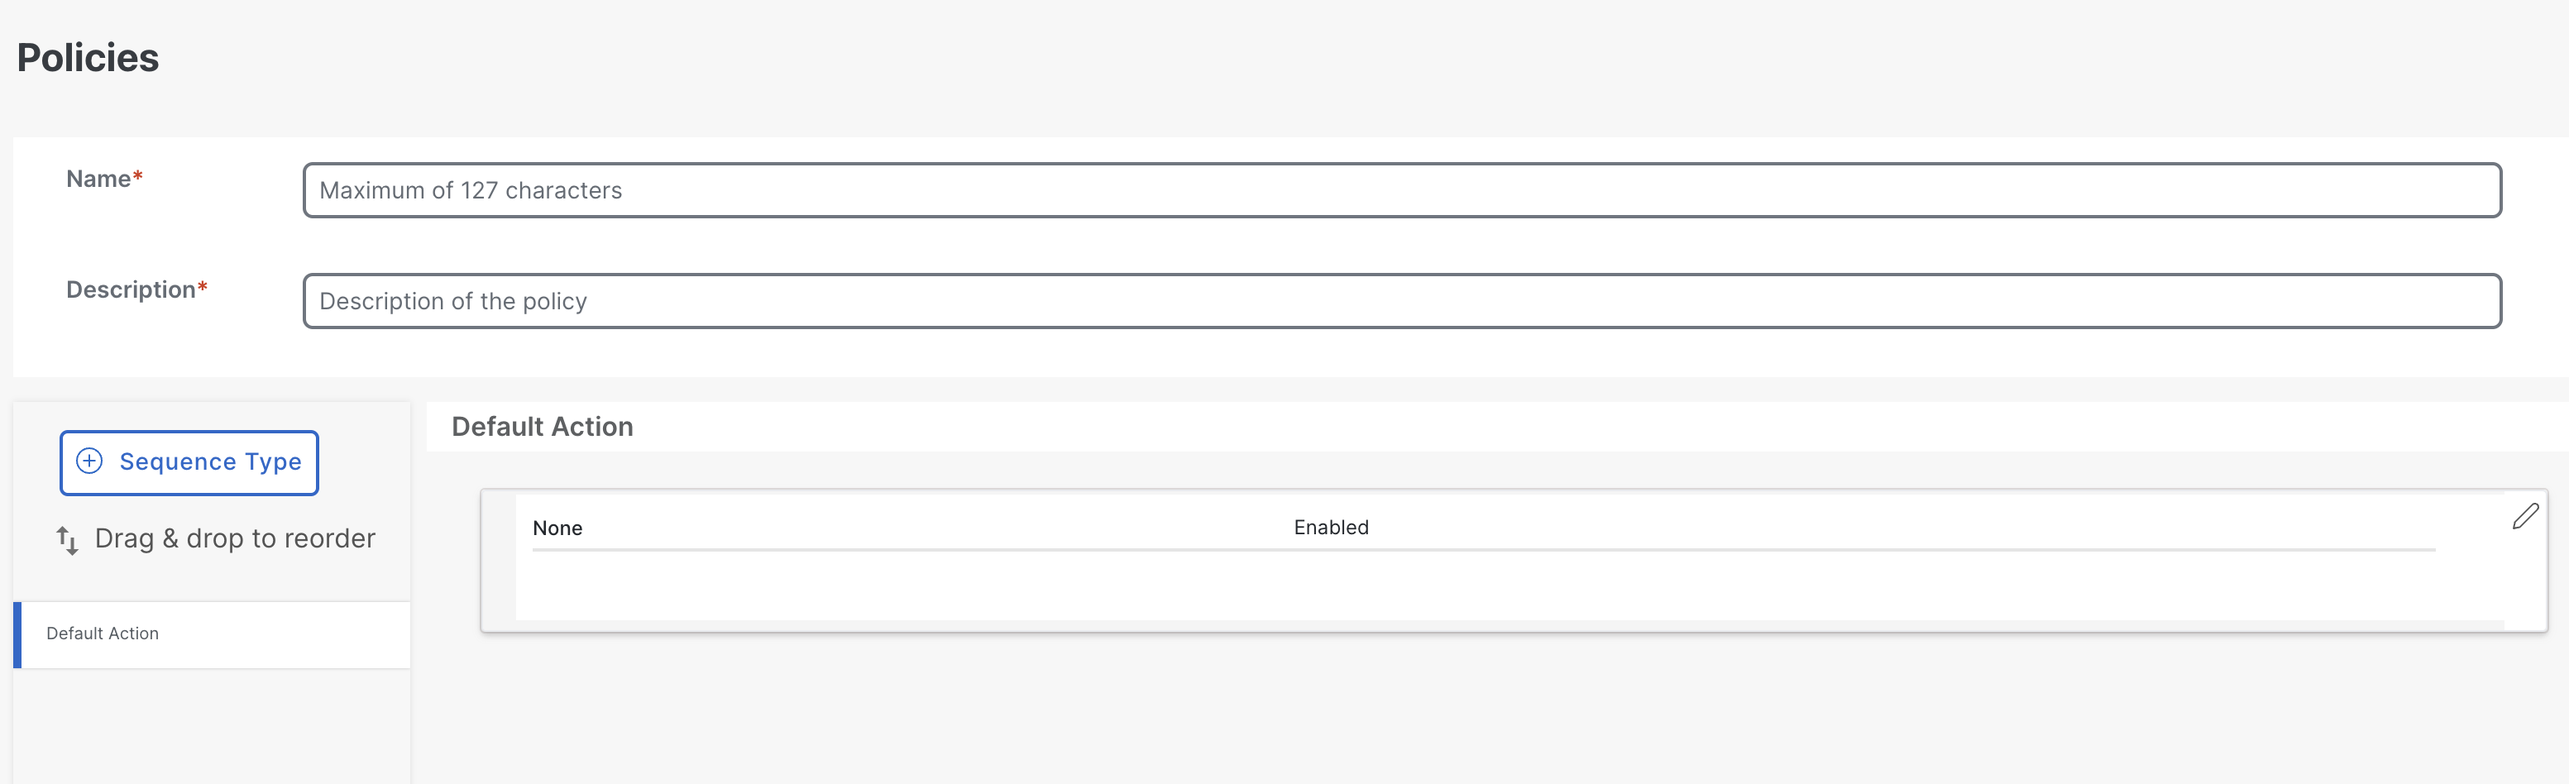
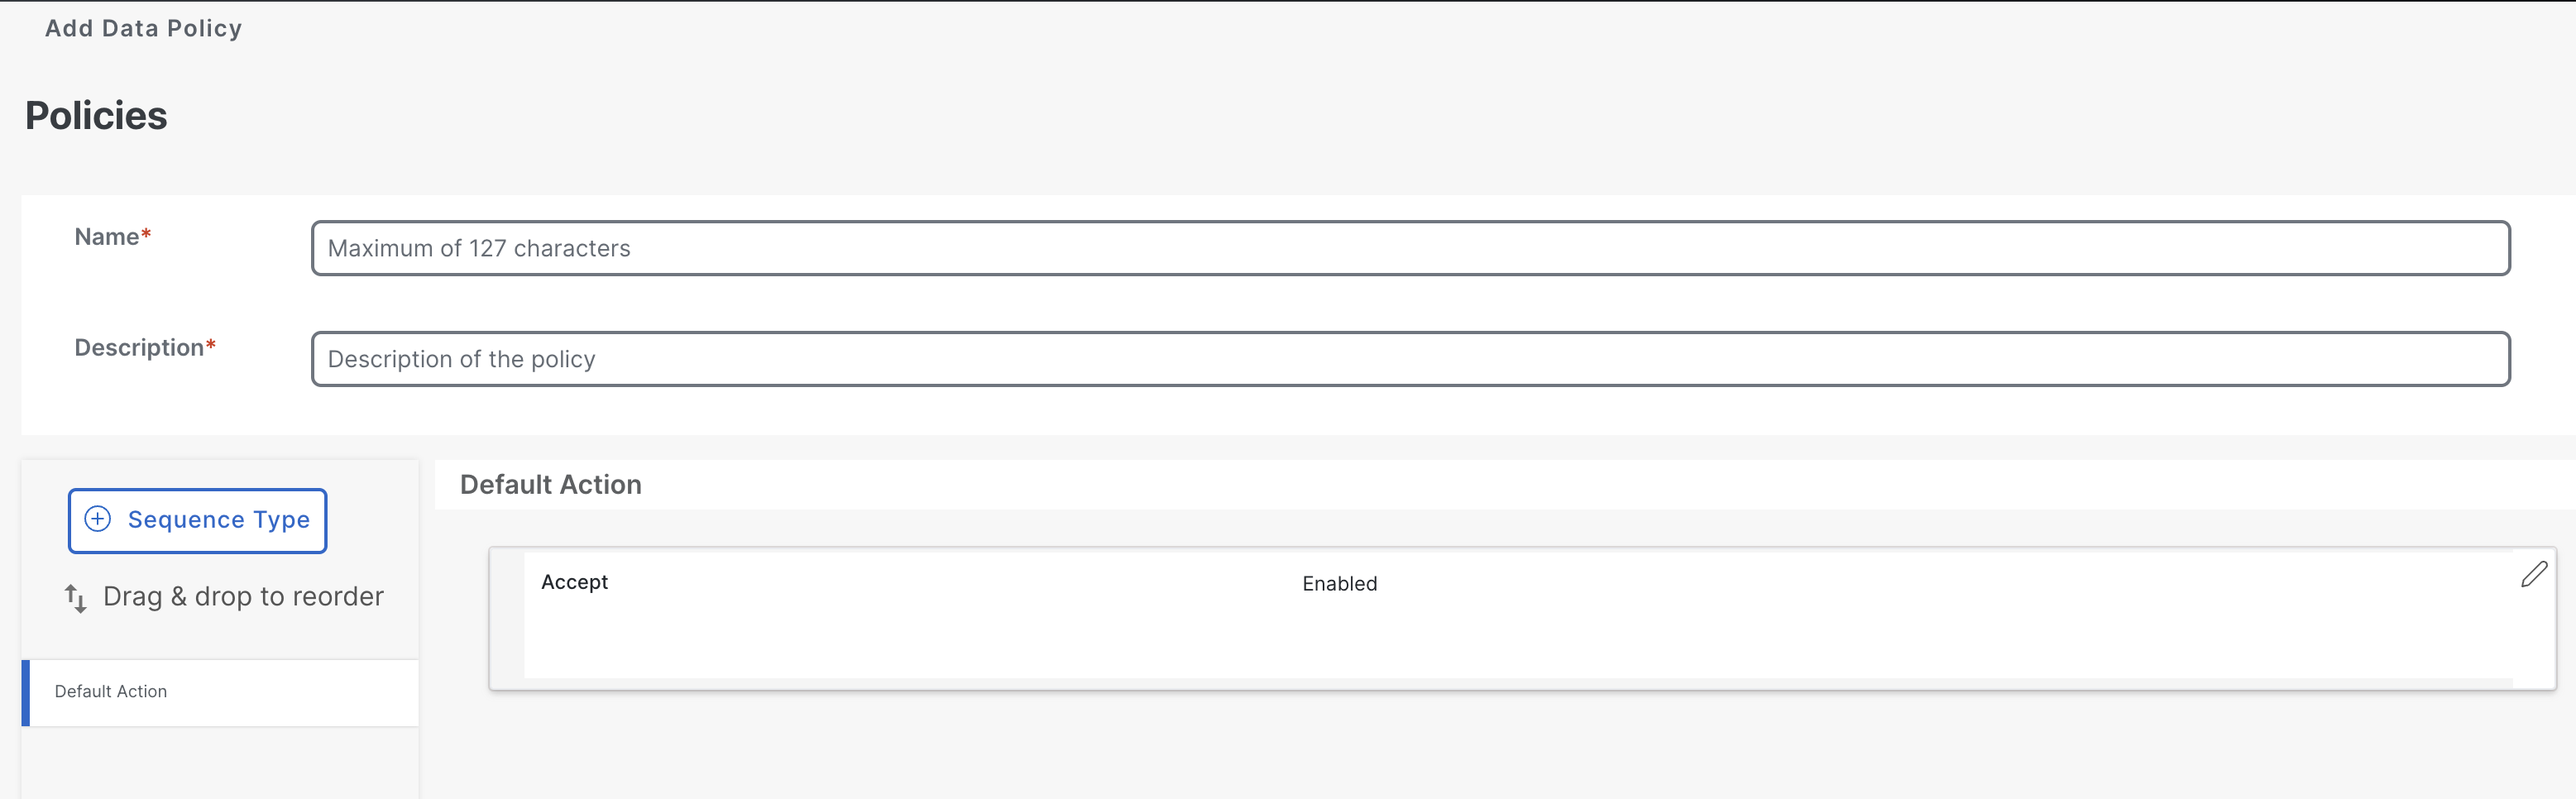
Scenario-2b guide

diff --git a/docs/lab3_route_traffic.md b/docs/lab3_route_traffic.md
@@ -610,3 +610,5 @@ This centralized policy ensures that traffic adheres to the intended security an
    1.  Under “**<font color="orange">Actions</font>**” Select **<font color="green">Accept</font>**.
    2.  Click “**Save and Match**”.
    ![Configuring Data Policies](./assets/S-3-figure-31.png){ .off-glb }
+7. Click **Sequence Type**.
+   ![Configuring Data Policies](./assets/S-3-figure-32.png){ .off-glb }
